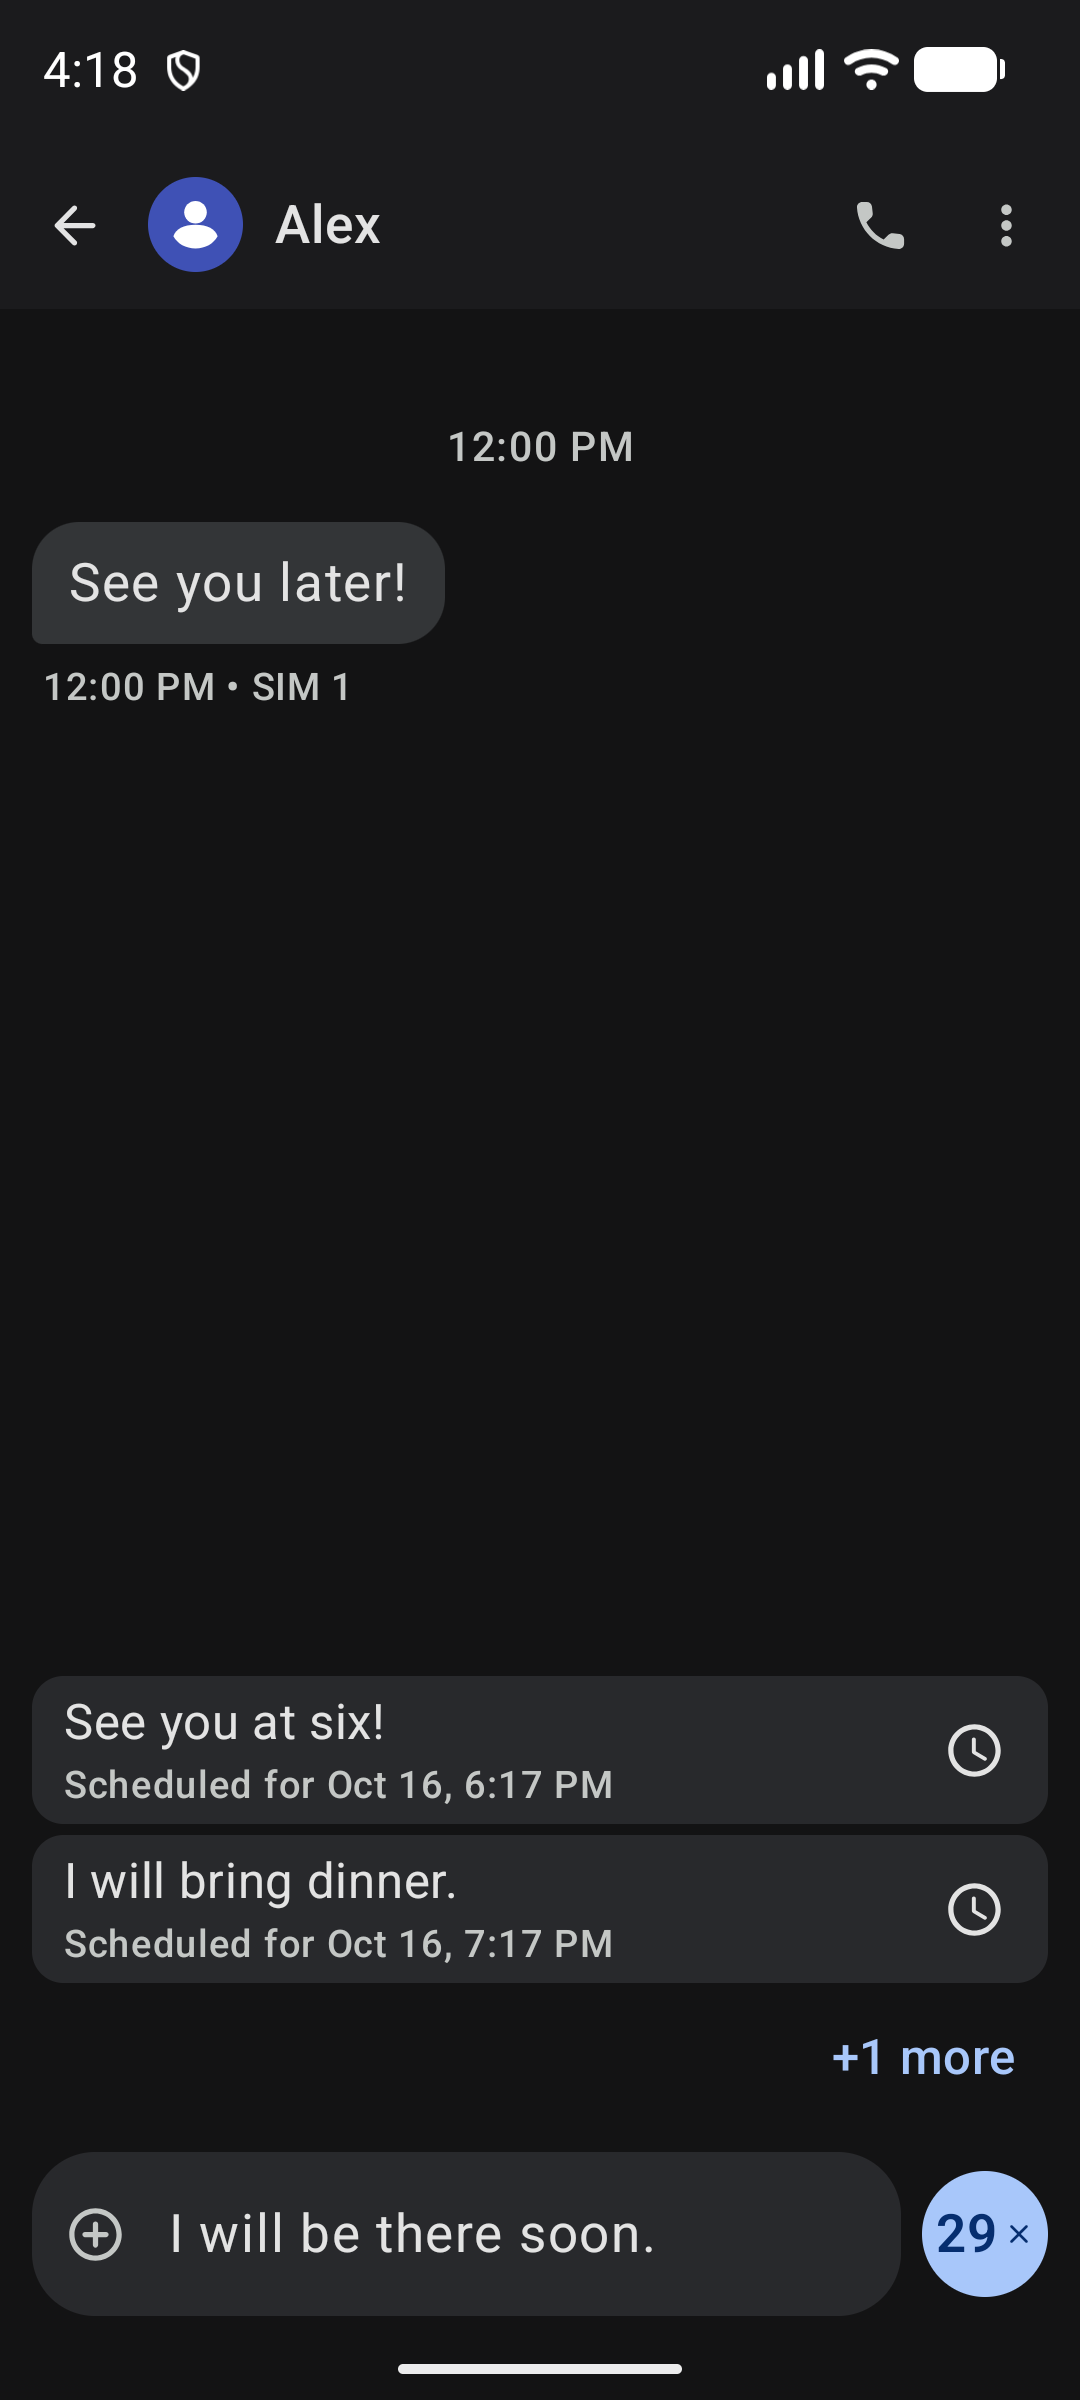
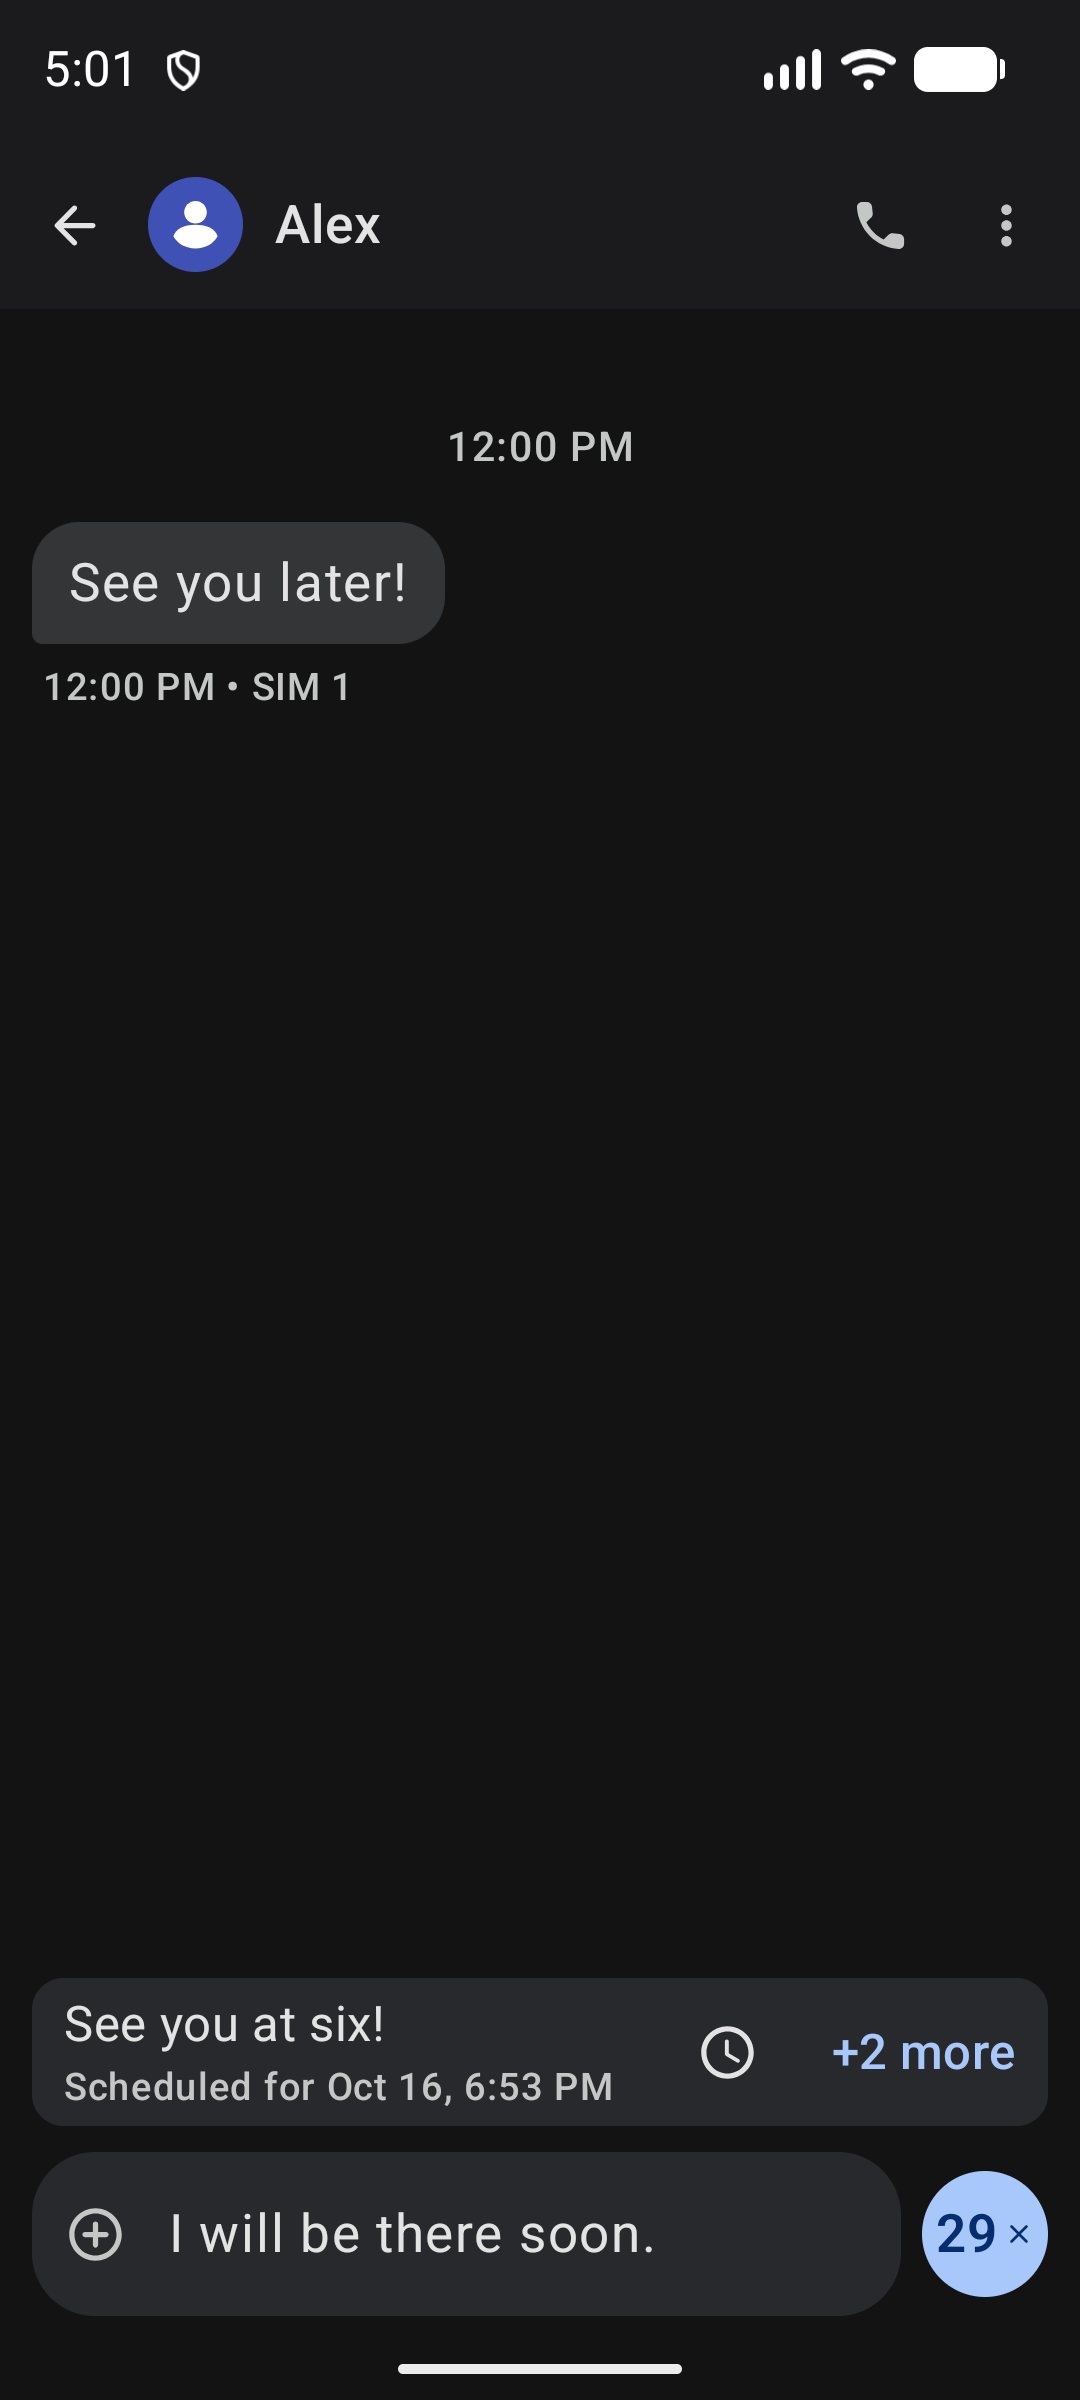
docs: refresh combined compact tray comparison

diff --git a/docs/comparisons/combined/index.html b/docs/comparisons/combined/index.html
@@ -1,1 +1,1 @@
-<!doctype html><html lang="en"><meta charset="utf-8"><meta name="viewport" content="width=device-width,initial-scale=1"><title>Conversation sending controls</title><style>body{font:16px system-ui;margin:32px;background:#f5f5f5;color:#222}h1{font-size:24px}.images{display:flex;gap:24px;flex-wrap:wrap}figure{margin:0;max-width:360px;flex:1 1 280px}img{width:100%;height:auto}figcaption{padding:12px 0;font-weight:600}</style><h1>Conversation sending controls</h1><div class="images"><figure><figcaption>Light</figcaption><img src="light.png" alt="Two scheduled messages above the composer with one more available"></figure><figure><figcaption>Dark · larger text</figcaption><img src="dark-large-text.png" alt="Scheduled messages and a cancellable countdown inside the send button"></figure></div></html>
+<!doctype html><html lang="en"><meta charset="utf-8"><meta name="viewport" content="width=device-width,initial-scale=1"><title>Conversation sending controls</title><style>body{font:16px system-ui;margin:32px;background:#f5f5f5;color:#222}h1{font-size:24px}.images{display:flex;gap:24px;flex-wrap:wrap}figure{margin:0;max-width:360px;flex:1 1 280px}img{width:100%;height:auto}figcaption{padding:12px 0;font-weight:600}</style><h1>Conversation sending controls</h1><div class="images"><figure><figcaption>Light</figcaption><img src="light.png" alt="One scheduled message above the composer with inline overflow"></figure><figure><figcaption>Dark · larger text</figcaption><img src="dark-large-text.png" alt="Scheduled messages and a cancellable countdown inside the send button"></figure></div></html>
